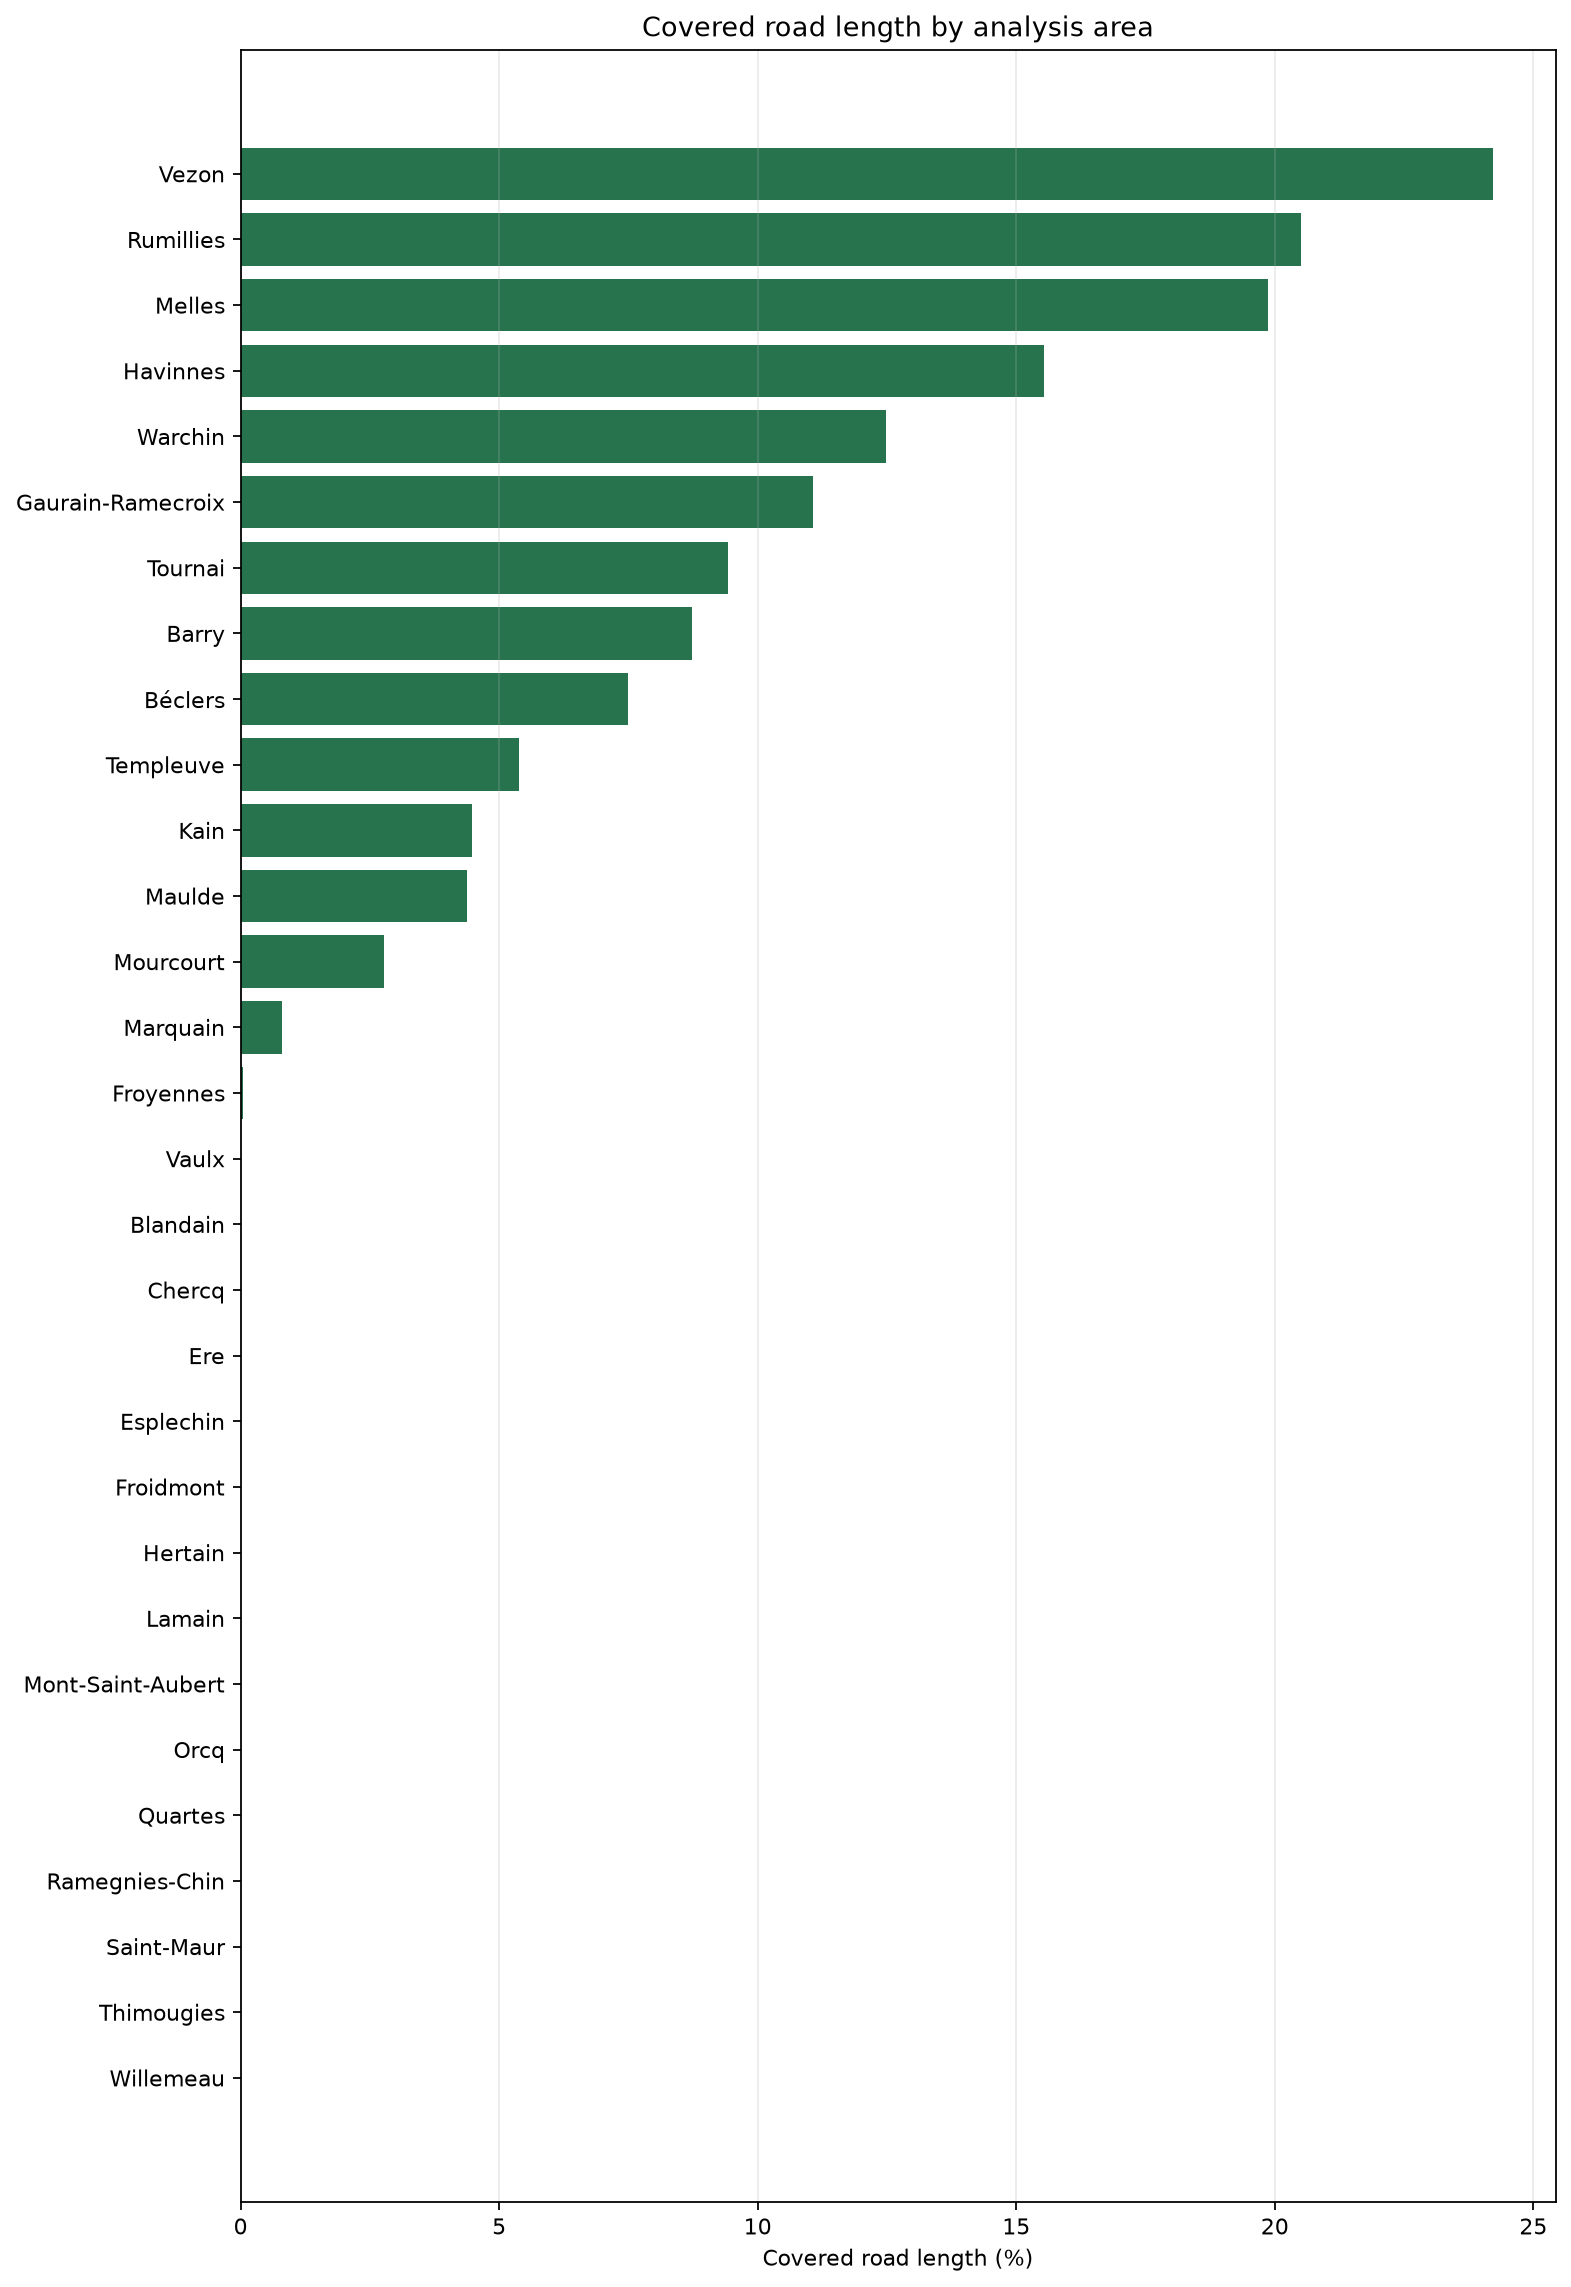
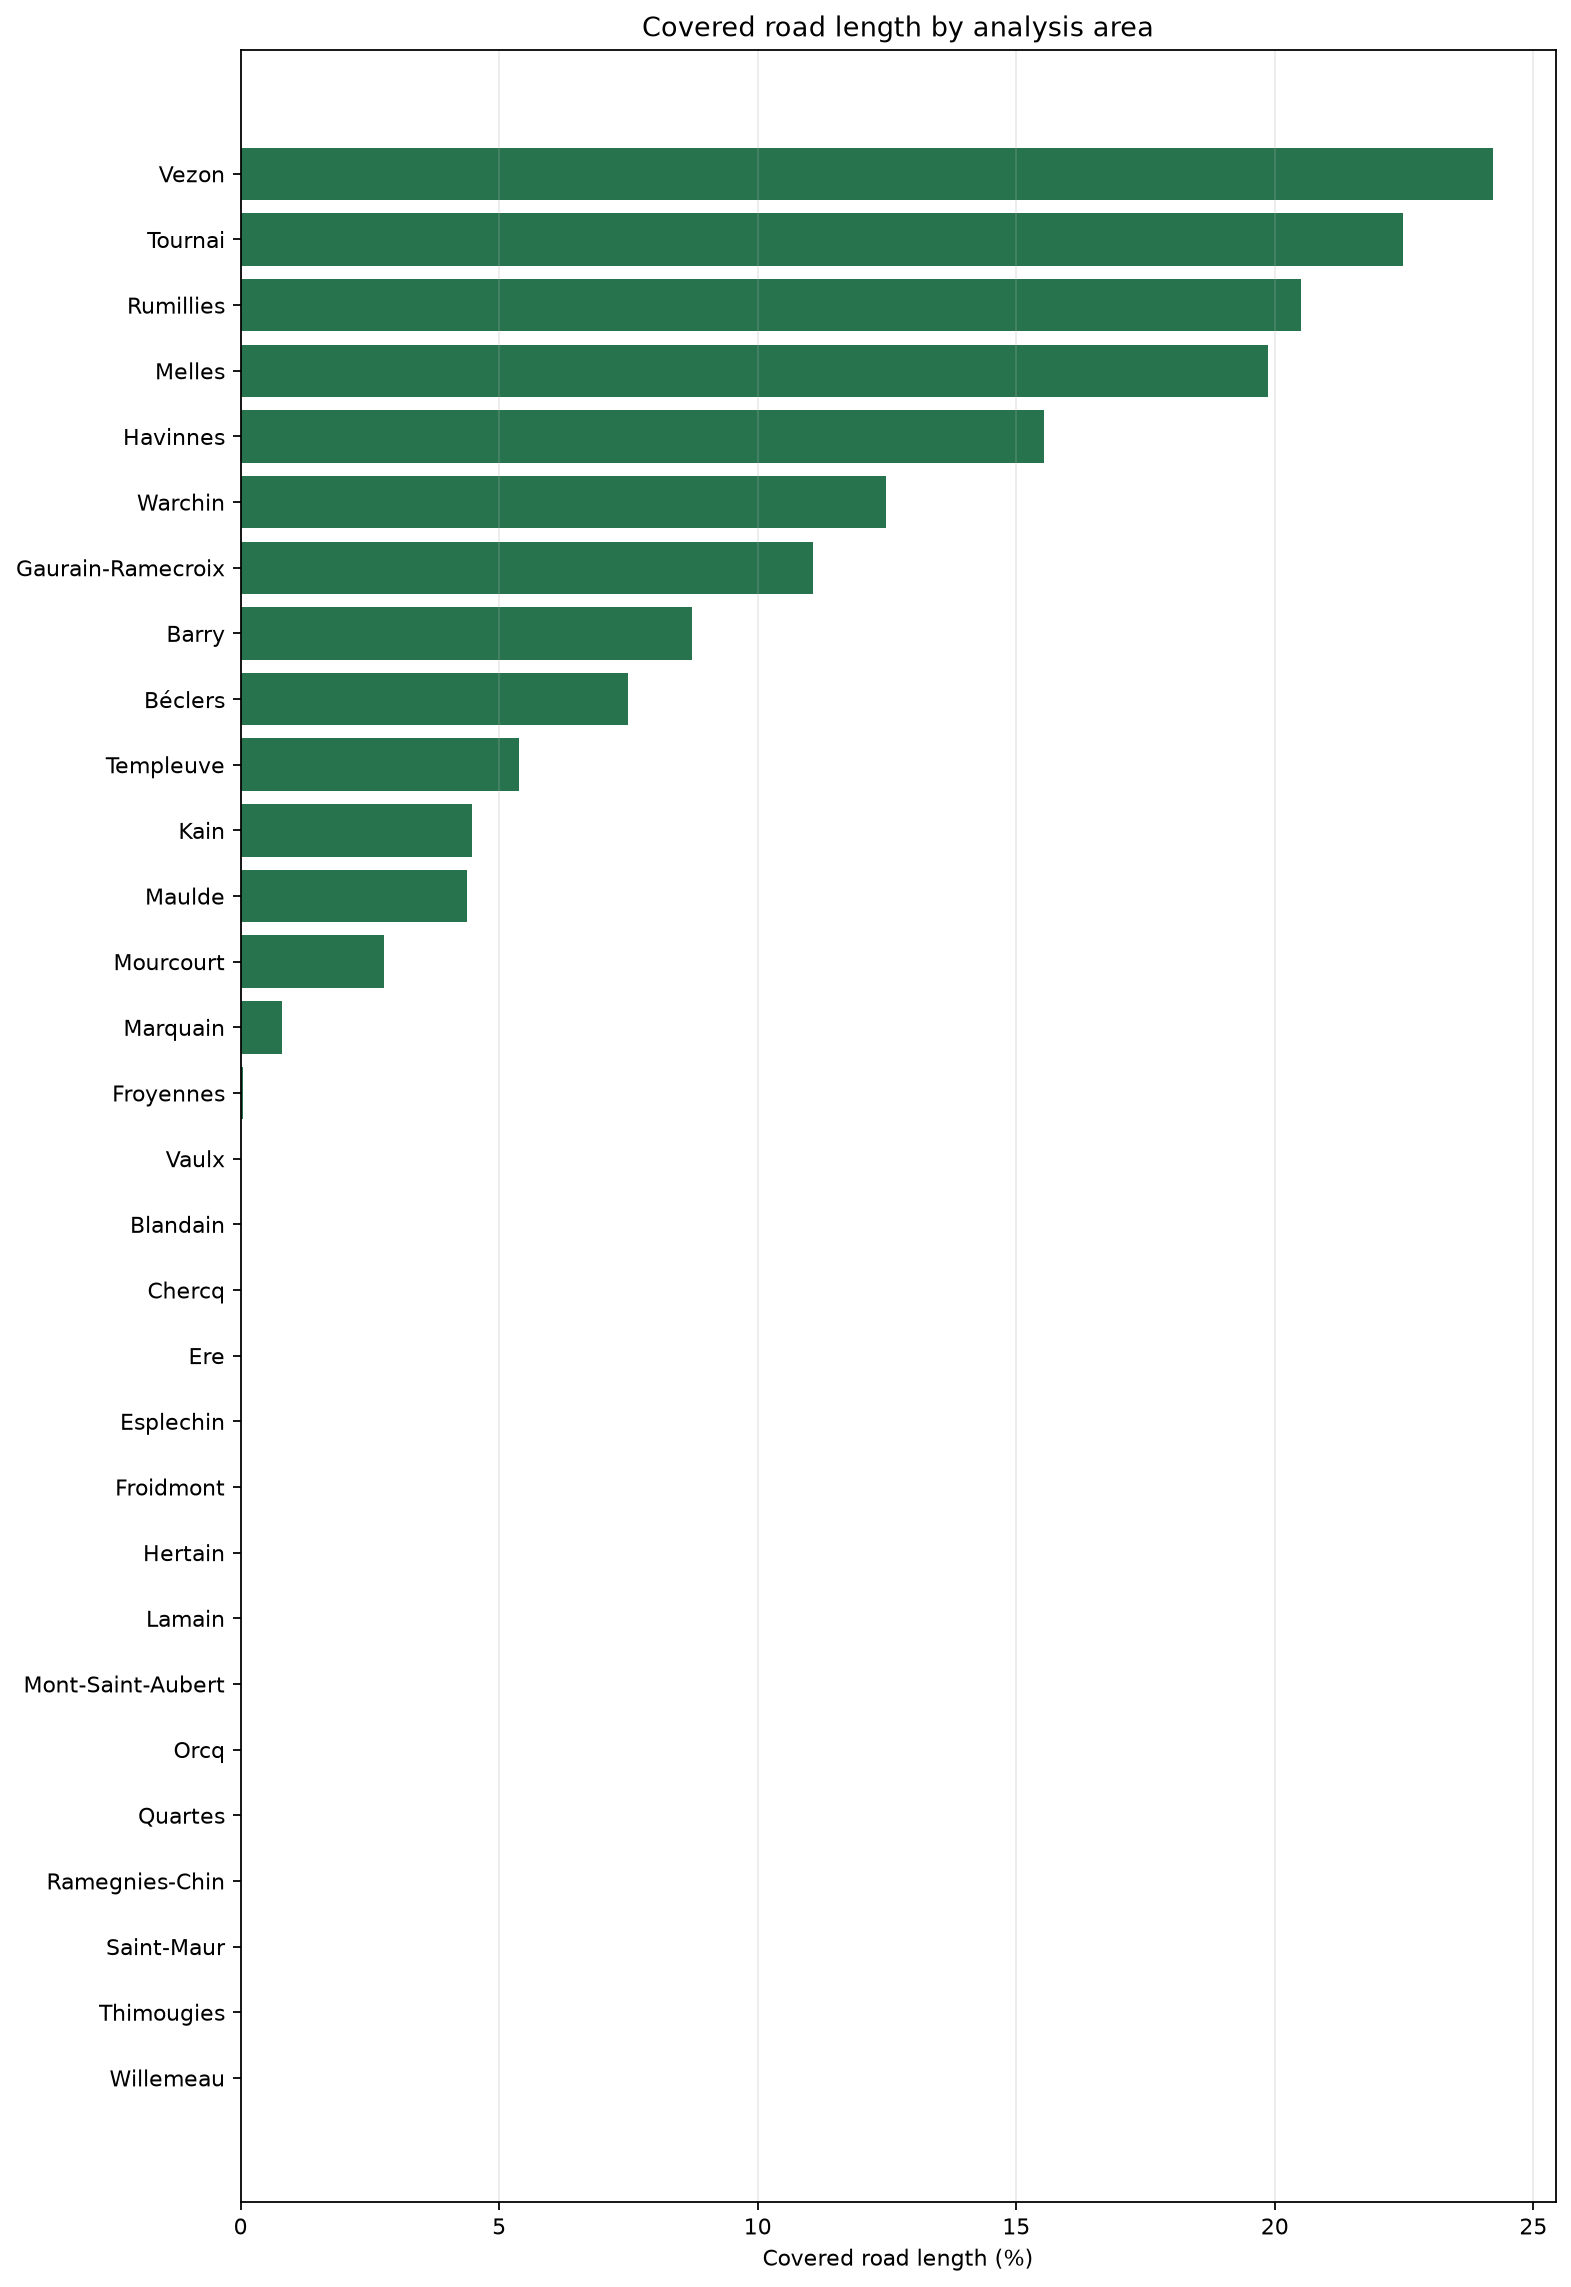
Refresh centre Mapillary coverage

Changed region(s): [[0.4679, 0.0931, 0.9045, 0.2794], [0.0312, 0.0931, 0.1248, 0.2484]]

diff --git a/content/villages/tournai.md b/content/villages/tournai.md
@@ -4,17 +4,17 @@ description = "Current street-level imagery coverage and capture priorities for 
 generated = true
 +++
 
-The current baseline classifies 9.43% of the analysed road length in Tournai as covered. This page is a working status record for the Mapping Tournai field project and will evolve after future capture sessions.
+The current baseline classifies 22.48% of the analysed road length in Tournai as covered. This page is a working status record for the Mapping Tournai field project and will evolve after future capture sessions.
 
 ## Current coverage
 
 | Indicator | Value |
 | --- | ---: |
 | Total road length | 231 km |
-| Covered length | 22 km |
-| Partial length | 41 km |
-| Missing length | 168 km |
-| Covered percentage | 9.43% |
+| Covered length | 52 km |
+| Partial length | 47 km |
+| Missing length | 132 km |
+| Covered percentage | 22.48% |
 
 Values that are not present in the source CSV are left unavailable rather than estimated.
 

diff --git a/content/maps/_index.md b/content/maps/_index.md
@@ -18,7 +18,7 @@ The table is generated from `data/processed/analysis_units_stats.csv`. Complete 
 
 | Area | Complete coverage | Total road length | Covered length | Partial length | Missing length |
 | --- | ---: | ---: | ---: | ---: | ---: |
-| [Tournai](/villages/tournai/) | 9.43% | 231 km | 22 km | 41 km | 168 km |
+| [Tournai](/villages/tournai/) | 22.48% | 231 km | 52 km | 47 km | 132 km |
 | [Barry](/villages/barry/) | 8.72% | 22 km | 2 km | 10 km | 10 km |
 | [Blandain](/villages/blandain/) | 0% | 82 km | 0 km | 16 km | 66 km |
 | [Béclers](/villages/beclers/) | 7.49% | 60 km | 5 km | 20 km | 35 km |

diff --git a/content/villages/_index.md b/content/villages/_index.md
@@ -13,7 +13,7 @@ The table below is generated from `data/processed/analysis_units_stats.csv`. Com
 
 | Area | Complete coverage | Total road length | Covered length | Partial length | Missing length |
 | --- | ---: | ---: | ---: | ---: | ---: |
-| [Tournai](/villages/tournai/) | 9.43% | 231 km | 22 km | 41 km | 168 km |
+| [Tournai](/villages/tournai/) | 22.48% | 231 km | 52 km | 47 km | 132 km |
 | [Barry](/villages/barry/) | 8.72% | 22 km | 2 km | 10 km | 10 km |
 | [Blandain](/villages/blandain/) | 0% | 82 km | 0 km | 16 km | 66 km |
 | [Béclers](/villages/beclers/) | 7.49% | 60 km | 5 km | 20 km | 35 km |